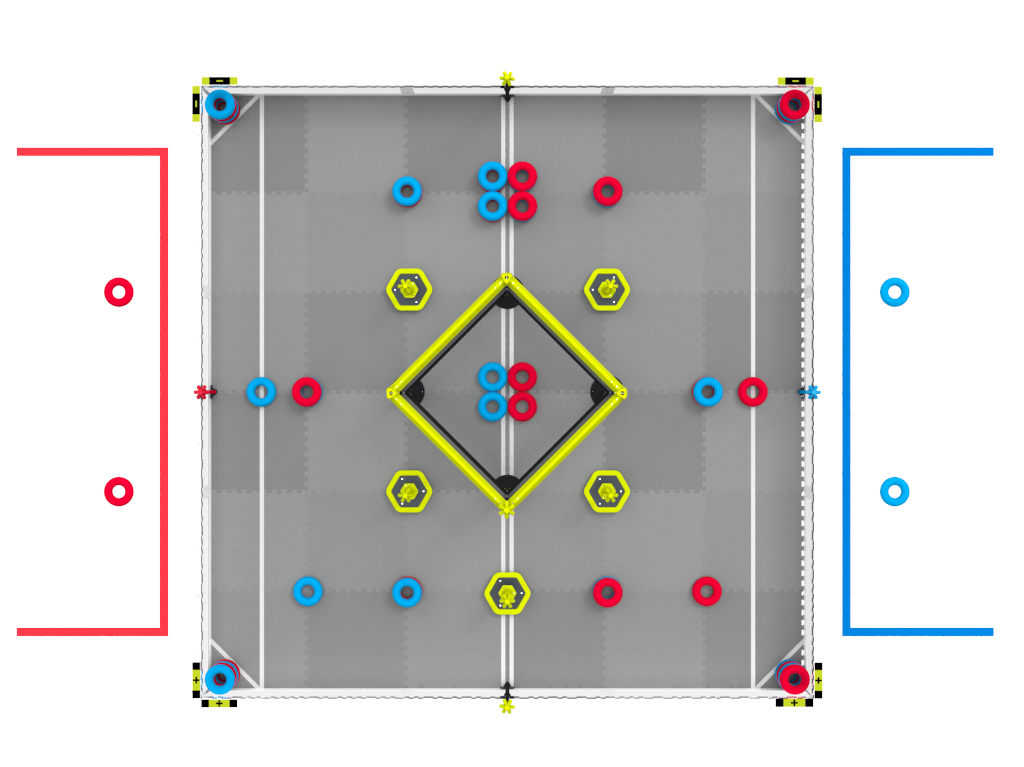
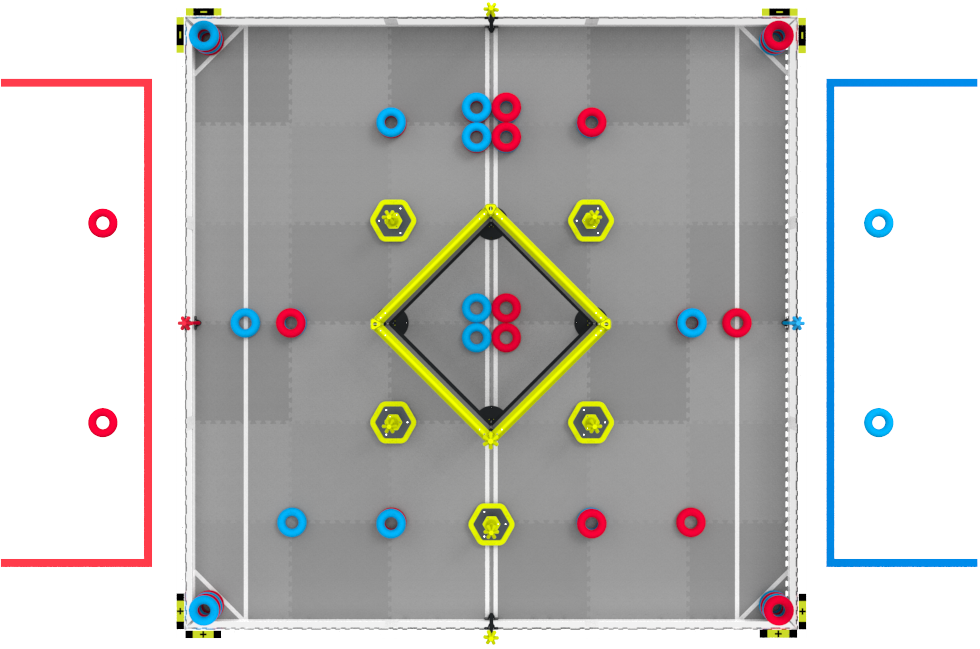
switched back to stacked page

diff --git a/index.html b/index.html
@@ -12,7 +12,8 @@
         <link rel="preconnect" href="https://fonts.googleapis.com">
         <link rel="preconnect" href="https://fonts.gstatic.com" crossorigin>
         <link href="https://fonts.googleapis.com/css2?family=Kanit:ital,wght@0,100;0,200;0,300;0,400;0,500;0,600;0,700;0,800;0,900;1,100;1,200;1,300;1,400;1,500;1,600;1,700;1,800;1,900&display=swap" rel="stylesheet">
-        <script defer src="home.js"></script>
+        <script defer src="js/home.js"></script>
+        <script defer src="js/robotdragging.js"></script>
     </head>
     <body id="home">
         <main class="kanit">
@@ -21,6 +22,9 @@
                     <p class="header-window-dropdown simple-hoverable">
                         Window
                     </p>
+                    <div class="header-window" style="display: none;">
+                        stuff
+                    </div>
                     <p class="header-settings-dropdown simple-hoverable">
                         Settings
                     </p>
@@ -87,6 +91,9 @@
             </nav>
             <section class="pathgen-container">
                 <img class="pathgen-image" src="images/field1.png" alt="">
+                <div class="robot-dragger-base" id="robot-dragger-base">
+                    <div class="robot-dragger" id="robot-dragger"></div>
+                </div>
             </section>
         </main>
     </body>

diff --git a/js/robotdragging.js b/js/robotdragging.js
@@ -1,0 +1,42 @@
+// Make the DIV element draggable
+dragElement(document.getElementById("robot-dragger-base"));
+
+function dragElement(elmnt) {
+    var pos1 = 0, pos2 = 0, pos3 = 0, pos4 = 0;
+    if (document.getElementById("robot-dragger")) {
+        // if present, the header is where you move the DIV from
+        document.getElementById("robot-dragger").onmousedown = dragMouseDown;
+    } else {
+        // otherwise, move the DIV from anywhere inside the DIV
+        elmnt.onmousedown = dragMouseDown;
+    }
+
+    function dragMouseDown(e) {
+        e = e || window.event;
+        e.preventDefault();
+        pos3 = e.clientX;
+        pos4 = e.clientY;
+        document.onmouseup = closeDragElement;
+        document.onmousemove = elementDrag;
+    }
+
+    function elementDrag(e) {
+        e = e || window.event;
+        e.preventDefault();
+
+        // calculate the new cursor position
+        pos1 = pos3 - e.clientX;
+        pos2 = pos4 - e.clientY;
+        pos3 = e.clientX;
+        pos4 = e.clientY;
+
+        // set the element's new position
+        elmnt.style.top = (elmnt.offsetTop - pos2) + "px";
+        elmnt.style.left = (elmnt.offsetLeft - pos1) + "px";
+    }
+
+    function closeDragElement() {
+        document.onmouseup = null;
+        document.onmousemove = null;
+    }
+}

diff --git a/js/home.js b/js/home.js
@@ -1,0 +1,16 @@
+windowClicked = false;
+settingsClicked = false;
+
+function onTopClick(topID, divID, check) {
+    if (!check) {
+        document.getElementById(topID).style.textDecoration = "underline";
+        document.getElementById(divID).style.display = "initial";
+    } else {
+        document.getElementById(topID).style.textDecoration = "none";
+        document.getElementById(divID).style.display = "none";
+    }
+    check = !check;
+}
+
+document.getElementById("header-window-dropdown").addEventListener("click", () => onTopClick("header-window-dropdown", "header-window", windowClicked));
+document.getElementById("header-settings-dropdown").addEventListener("click", () => onTopClick("header-settings-dropdown", "header-settings", settingsClicked));

diff --git a/styles/pathgen.css b/styles/pathgen.css
@@ -3,9 +3,23 @@
     align-items: center;
     justify-content: center;
     margin: 100px 0px 0px 21%;
-    height: 100%;
 }
 .pathgen-image {
-    width: 75%;
-    height: 80%;
+    height: 85vh;
+    margin-top: 27px;
+}
+
+.robot-dragger-base {
+    position: absolute;
+    left: 59vh;
+    top: 88.7vh;
+    z-index: 9;
+}
+.robot-dragger {
+    width: 32px;
+    height: 32px;
+    background-color: rgba(60, 60, 60, 0.7);
+    padding: 10px;
+    cursor: move;
+    z-index: 10;
 }

diff --git a/styles/sidebar.css b/styles/sidebar.css
@@ -16,6 +16,8 @@
     border-right-width: 5px;
     border-color: grey;
     border-style: solid;
+    background-color: rgb(71, 0, 0);
+    z-index: 1;
 }
 
 .waypoints-container, .constraints-container, .events-container {
@@ -99,7 +101,7 @@
 }
 .quick-action-text {
     margin: 0;
-    font-size: 18px;
+    font-size: 12px;
 }
 .quick-action:hover {
     scale: 1.04;

diff --git a/styles/general.css b/styles/general.css
@@ -3,6 +3,7 @@ body {
     font-family: "Poppins";
     margin: 0px;
     overflow-x: hidden;
+    overflow-y: hidden;
 }
 .kanit {
     font-family: "Kanit", "Open Sans", Arial, Helvetica, sans-serif;

diff --git a/styles/header.css b/styles/header.css
@@ -13,6 +13,7 @@
     border-bottom-width: 6px;
     border-color: grey;
     border-style: solid;
+    z-index: 999;
 }
 
 .header-operations-container {
